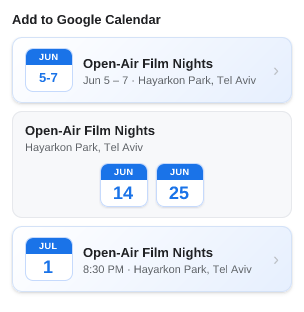
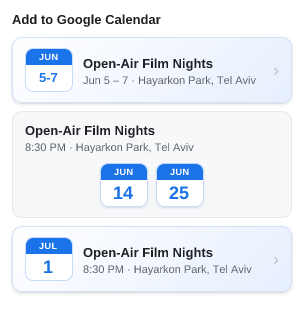
Show the common session time in a month card's header
A "month" card groups an event's scattered single-time days, and its day
chips show only the day-of-month — so when every session starts at the same
time, that time was lost. Surface it in the header above the icons
("7 PM · <location>") when, and only when, all the sessions share one time
(same start and end); differing-time and all-day month cards are unchanged.

Adds commonTime() (exported + unit-tested) and a UI case exercising all three
branches (same time / different times / all-day) in one snapshot; cases 13 and
14 now also carry the shared-time header.

Refs #324

Claude-Session: https://claude.ai/code/session_01Mjx4VEA8YVWbjvKqrcGR6R

Changed region(s): [[0.0592, 0.4615, 0.6513, 0.4904]]

diff --git a/test/ui/cases/15-month-common-time-header.case.js b/test/ui/cases/15-month-common-time-header.case.js
@@ -1,0 +1,49 @@
+// The common-time header on a month card (#324). Three events, each a run of
+// scattered single-show days that fold into one month card, exercise all three
+// branches of commonTime side by side:
+//   - SAME times: Jun 5/14/25 all at 7 PM -> the header reads "7 PM · <location>"
+//     (the time the day chips can't show, surfaced above the icons).
+//   - DIFFERENT times: Jul 5/14/25 at 6/7/8 PM -> no single shared time, so the
+//     header is just the location, unchanged.
+//   - NO times (all-day): Aug 5/14/25 with date-only starts -> no time to share,
+//     header is just the location.
+module.exports = {
+  description:
+    "Month card common-time header: scattered dates that share one start time show it above the icons; differing-time and all-day month cards show only the location",
+  data: {
+    supported: true,
+    events: [
+      {
+        title: "Hebrew Conversation Club",
+        location: "Beit Ariela Library, Tel Aviv",
+        ctz: "Asia/Jerusalem",
+        times: [
+          { start: "2026-06-05T19:00:00", end: null },
+          { start: "2026-06-14T19:00:00", end: null },
+          { start: "2026-06-25T19:00:00", end: null },
+        ],
+      },
+      {
+        title: "Rotating Recital Series",
+        location: "Felicja Blumental Center, Tel Aviv",
+        ctz: "Asia/Jerusalem",
+        times: [
+          { start: "2026-07-05T18:00:00", end: null },
+          { start: "2026-07-14T19:00:00", end: null },
+          { start: "2026-07-25T20:00:00", end: null },
+        ],
+      },
+      {
+        title: "Open Studios Month",
+        location: "Hamiffal, Jerusalem",
+        ctz: "Asia/Jerusalem",
+        times: [
+          { start: "2026-08-05", end: null },
+          { start: "2026-08-14", end: null },
+          { start: "2026-08-25", end: null },
+        ],
+      },
+    ],
+  },
+  listing: "none",
+};

diff --git a/test/unit/events-view.test.js b/test/unit/events-view.test.js
@@ -15,7 +15,7 @@ const path = require("node:path");
 const { pathToFileURL } = require("node:url");
 
 let formatWhen, summarize, dateChip, sameDayLabel, toCards;
-let monthRangeChip, formatDateRange;
+let monthRangeChip, formatDateRange, commonTime;
 before(async () => {
   ({
     formatWhen,
@@ -25,6 +25,7 @@ before(async () => {
     toCards,
     monthRangeChip,
     formatDateRange,
+    commonTime,
   } = await import(pathToFileURL(path.join(__dirname, "..", "..", "ui", "views", "events-view.js"))));
 });
 
@@ -191,6 +192,39 @@ test("formatDateRange: 'Mon d – d' across days, no time", () => {
 
 test("formatDateRange: a single day shows just that day", () => {
   assert.match(formatDateRange("2026-06-05T19:00:00", "2026-06-05T19:00:00"), /^[A-Za-z]+ 5$/);
+});
+
+// --- commonTime: the time a group card's sessions all share, shown in the
+// header above the icons — only when every instance resolves to the same time.
+
+test("commonTime: scattered dates that all share one start time return that time", () => {
+  const time = commonTime([inst("2026-06-05T19:00:00"), inst("2026-06-25T19:00:00")]);
+  assert.equal(time, sameDayLabel({ start: "2026-06-05T19:00:00" }));
+});
+
+test("commonTime: sessions with different times share none ('')", () => {
+  assert.equal(commonTime([inst("2026-06-05T19:00:00"), inst("2026-06-25T20:00:00")]), "");
+});
+
+test("commonTime: a shared start AND end returns the full range", () => {
+  const times = [
+    { t: { start: "2026-06-05T19:00:00", end: "2026-06-05T21:00:00" } },
+    { t: { start: "2026-06-25T19:00:00", end: "2026-06-25T21:00:00" } },
+  ];
+  assert.ok(commonTime(times).includes("–"), `expected a range in "${commonTime(times)}"`);
+});
+
+test("commonTime: a same start but differing end is not common ('')", () => {
+  const times = [
+    { t: { start: "2026-06-05T19:00:00", end: "2026-06-05T21:00:00" } },
+    { t: { start: "2026-06-25T19:00:00", end: "2026-06-25T22:00:00" } },
+  ];
+  assert.equal(commonTime(times), "");
+});
+
+test("commonTime: any all-day or dateless instance yields no common time ('')", () => {
+  assert.equal(commonTime([inst("2026-06-05T19:00:00"), inst("2026-06-17")]), "");
+  assert.equal(commonTime([inst("2026-06-05T19:00:00"), inst("")]), "");
 });
 
 // --- toCards: instances grouped BY MONTH (see events-view.js's header). A month

diff --git a/ui/views/events-view.js b/ui/views/events-view.js
@@ -200,14 +200,17 @@ function makeGroupCard(card, tab, chipFor) {
   const cardEl = document.createElement("div");
   cardEl.className = "event-group";
 
-  // Header: the title over the location, full width.
+  // Header: the title over the "when · where" line, full width. When every
+  // session shares one time (a month card whose scattered dates all start — and
+  // end — alike), that common time leads the line; otherwise just the location.
   const head = document.createElement("span");
   head.className = "e-group-head";
   head.appendChild(titleEl(event, tab));
-  if (event.location) {
+  const detail = [commonTime(instances), event.location].filter(Boolean).join(" · ");
+  if (detail) {
     const loc = document.createElement("span");
     loc.className = "e-when";
-    loc.textContent = event.location;
+    loc.textContent = detail;
     head.appendChild(loc);
   }
   cardEl.appendChild(head);
@@ -513,6 +516,19 @@ function timeRange(instance) {
   const end = effectiveEnd(instance);
   if (end && end > startDate) text += ` – ${formatTime(end)}`;
   return text;
+}
+
+// The time a group card's sessions all share, for the header above the icons —
+// only when EVERY instance is timed and resolves to the same time(s)
+// (e.g. scattered dates that all start at 7 PM). "" when the sessions differ, or
+// any is all-day/dateless (no single time to show), so the header then carries
+// just the location, unchanged. A same-day card's instances have distinct times
+// by construction, so this naturally yields "" there — the time lives on each
+// chip instead.
+export function commonTime(instances) {
+  const times = instances.map((it) => timeRange(it.t));
+  if (times.some((t) => !t)) return "";
+  return times.every((t) => t === times[0]) ? times[0] : "";
 }
 
 // Human-readable date/time line for the popup (separate from

diff --git a/test/ui/cases/14-consecutive-run-multiday.case.js b/test/ui/cases/14-consecutive-run-multiday.case.js
@@ -3,7 +3,9 @@
 // the 5–7 range, the line reading "Jun 5 – 7 · <location>" (a span, no times) —
 // while the remaining scattered June days (14, 25) fold into a separate month
 // card and the lone July date is its own single card. All four card kinds the
-// grouping can produce, side by side: multi-day, month, and single.
+// grouping can produce, side by side: multi-day, month, and single. Every date
+// starts at 8:30 PM, so the month card's header carries that shared time above
+// the icons ("8:30 PM · <location>", #324).
 module.exports = {
   description:
     "Consecutive run: Jun 5–7 collapse into one clickable multi-day card; scattered Jun 14/25 stay a month card; July a single card",

diff --git a/test/ui/cases/13-month-grouped-across-months.case.js b/test/ui/cases/13-month-grouped-across-months.case.js
@@ -2,7 +2,8 @@
 // days across two months. The three June dates (5, 14, 25) fold into ONE month
 // card — icon JUN over the 5–25 range, a button per day — and the lone July date
 // is its own plain single card. (Compare the old behavior: four separate single
-// cards, one per date.)
+// cards, one per date.) All three dates start at 7 PM, so the month card's header
+// surfaces that shared time above the icons ("7 PM · <location>", #324).
 module.exports = {
   description:
     "Month grouping across months: three scattered June dates become one JUN card (5/14/25), the July date a single card",

diff --git a/test/ui/README.md b/test/ui/README.md
@@ -96,3 +96,9 @@ Month grouping across months: three scattered June dates become one JUN card (5/
 Consecutive run: Jun 5–7 collapse into one clickable multi-day card; scattered Jun 14/25 stay a month card; July a single card
 
 ![14-consecutive-run-multiday](cases/14-consecutive-run-multiday.png)
+
+## 15-month-common-time-header
+
+Month card common-time header: scattered dates that share one start time show it above the icons; differing-time and all-day month cards show only the location
+
+![15-month-common-time-header](cases/15-month-common-time-header.png)